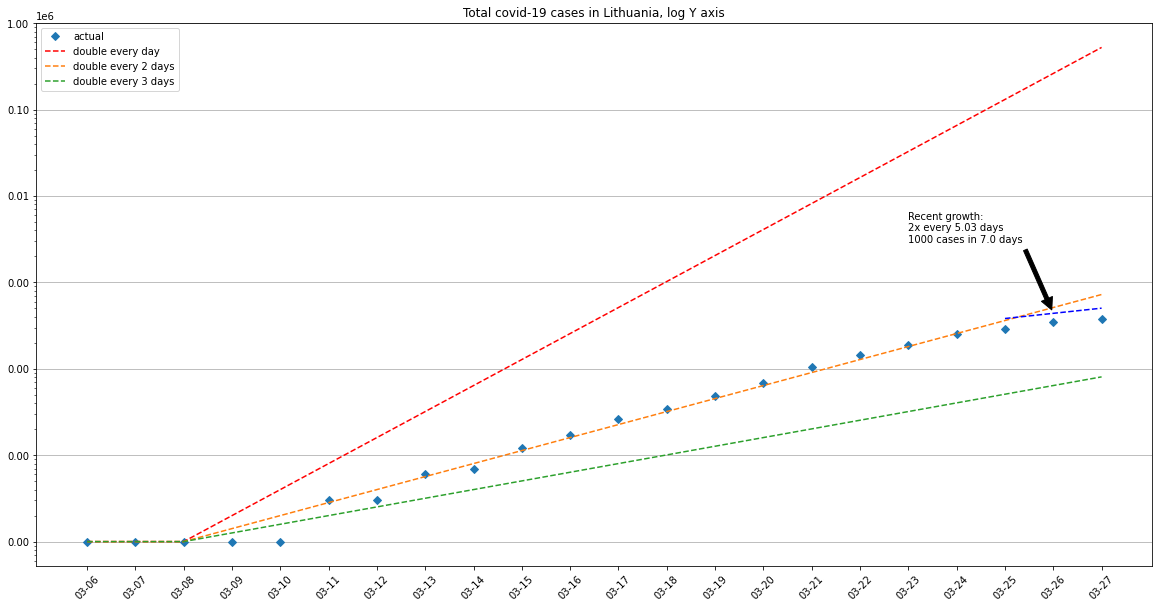
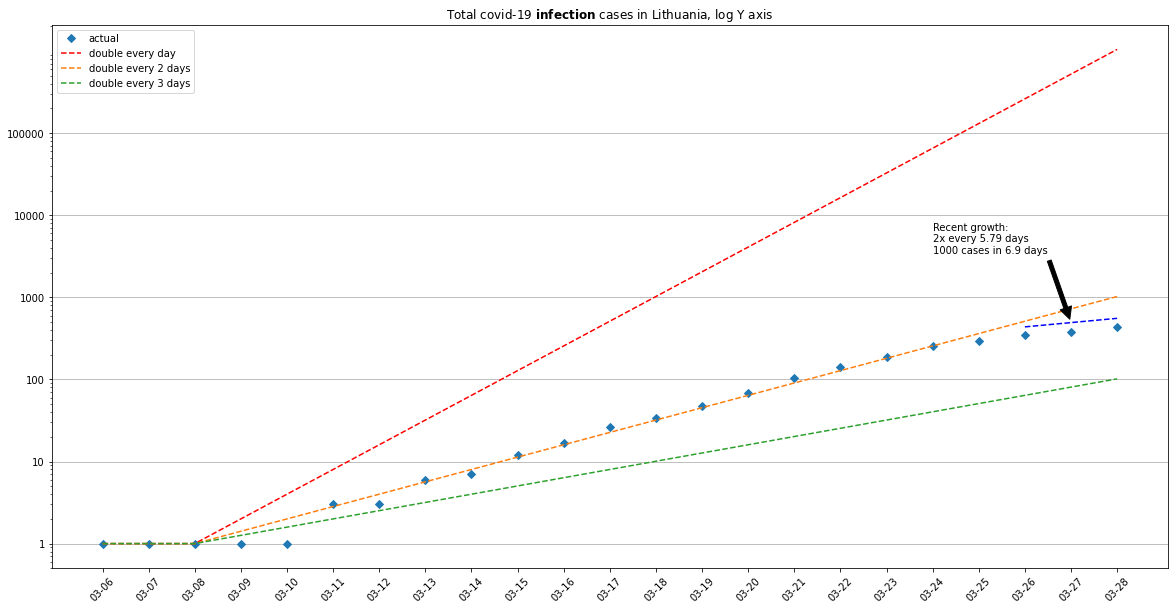
03-28 data

diff --git a/README.md b/README.md
@@ -1,6 +1,10 @@
 # Simple projections for COVID-19 case growth in Lithuania
 
-![Projections](index.png)
+## Total infection cases
+![Projections infection cases](index.png)
+
+## Total death cases
+![Projections death cases](index_d.png)
 
 ## Data sources
 - [https://github.com/mpiktas/covid19lt](https://github.com/mpiktas/covid19lt)
